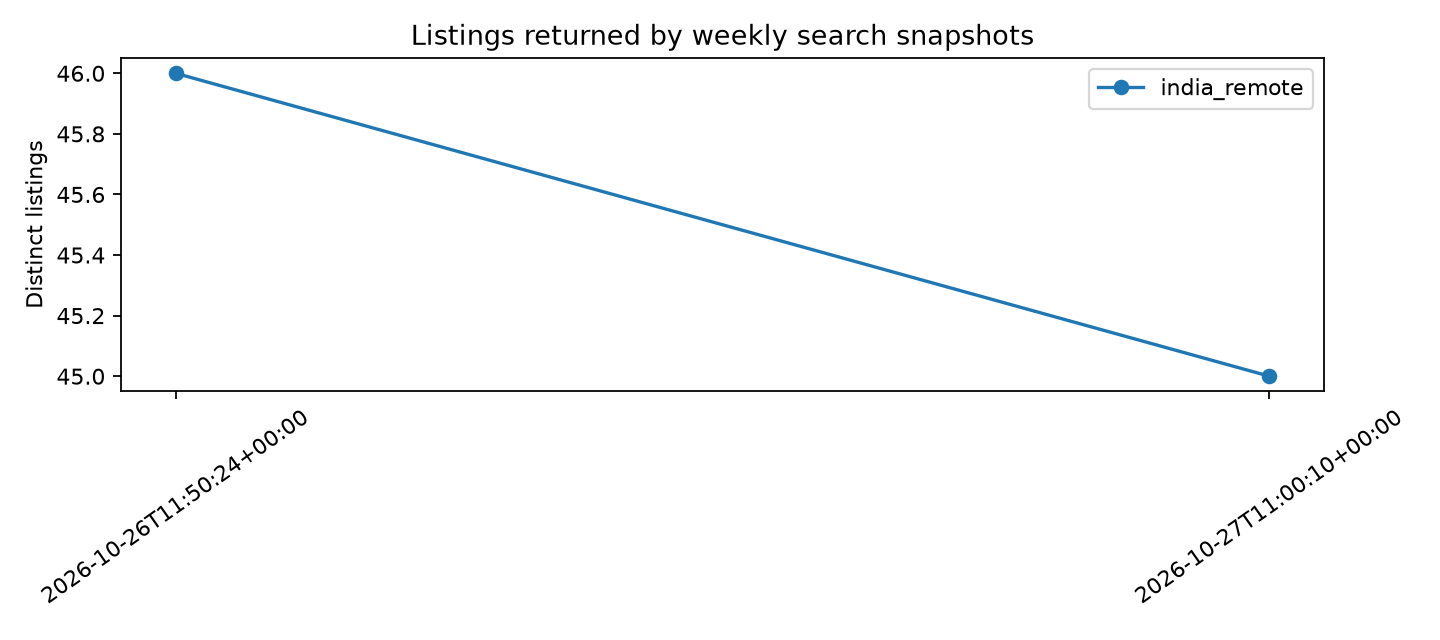
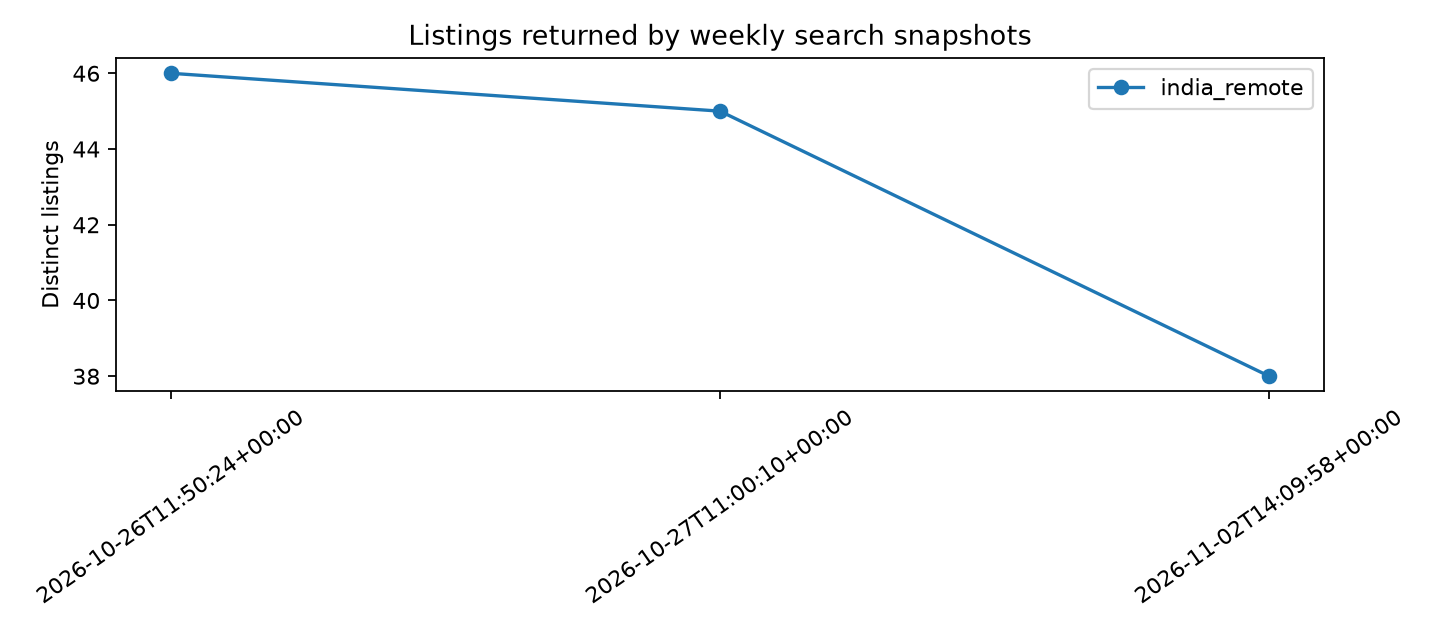
Refresh analyst job-market report

diff --git a/india-data-analyst-job-market-capstone/reports/dashboard.html b/india-data-analyst-job-market-capstone/reports/dashboard.html
@@ -1,8 +1,8 @@
 <!doctype html><html lang="en"><meta charset="utf-8"><meta name="viewport" content="width=device-width,initial-scale=1"><title>India Remote Data Analyst Job Market</title>
     <style>:root{color-scheme:dark;--bg:#080b11;--panel:#101622;--line:#243044;--text:#ecf2ff;--muted:#9ba9bd;--accent:#91a8ff;--mint:#79e0c1}*{box-sizing:border-box}body{margin:0;background:radial-gradient(ellipse at 80% -20%,#182441 0,transparent 46%),var(--bg);color:var(--text);font:16px/1.6 Inter,system-ui,sans-serif}main{max-width:1040px;margin:auto;padding:34px 22px 70px}nav,footer{color:var(--muted);font-size:13px;border-bottom:1px solid var(--line);padding:12px 0 20px}footer{border:0;border-top:1px solid var(--line);margin-top:32px;padding-top:20px}h1{font-size:clamp(38px,7vw,68px);line-height:1.05;letter-spacing:-.06em}.note,.panel{padding:20px;border:1px solid var(--line);border-radius:14px;background:var(--panel);margin:24px 0}.note{border-color:#48537a}table{border-collapse:collapse;width:100%}th,td{text-align:left;padding:10px;border-bottom:1px solid var(--line)}th{color:var(--mint)}img{max-width:100%;height:auto}a{color:var(--accent)}</style>
     <main><nav>BHARATH B · DATA ANALYTICS</nav><h1>What do data analyst job ads ask for?</h1><p>India-eligible remote listings · refreshed by weekly snapshots</p>
-    <section class="note">Source: <a href="https://himalayas.app/api">Himalayas public jobs API</a>. The API returned 467 keyword candidates; the title filter retained 45 analyst listings. This is a remote-job sample filtered for India eligibility, not a census, and does not represent Chennai or on-site roles.</section>
-    <section class="panel"><h2>Skills mentioned</h2><img src="skill_demand.png" alt="Skill demand chart"><table><thead><tr><th>Skill</th><th>Listings</th><th>Share</th></tr></thead><tbody><tr><td>SQL</td><td>35</td><td>77.8%</td></tr><tr><td>Data visualization</td><td>32</td><td>71.1%</td></tr><tr><td>Python</td><td>30</td><td>66.7%</td></tr><tr><td>Communication</td><td>23</td><td>51.1%</td></tr><tr><td>Power BI</td><td>23</td><td>51.1%</td></tr><tr><td>Tableau</td><td>23</td><td>51.1%</td></tr><tr><td>Statistics</td><td>19</td><td>42.2%</td></tr><tr><td>Excel</td><td>18</td><td>40.0%</td></tr><tr><td>ETL / data pipelines</td><td>15</td><td>33.3%</td></tr><tr><td>Cloud (AWS/Azure/GCP)</td><td>11</td><td>24.4%</td></tr></tbody></table></section>
-    <section class="panel"><h2>Advertised salaries by experience label</h2><table><thead><tr><th>Experience</th><th>Currency</th><th>Period</th><th>Salary listings</th><th>Mean midpoint</th></tr></thead><tbody><tr><td>mid</td><td>INR</td><td>annual</td><td>2</td><td>637,500</td></tr><tr><td>mid</td><td>USD</td><td>annual</td><td>1</td><td>111,500</td></tr></tbody></table><p>Only postings with disclosed salary are included. Currencies and pay periods are kept separate.</p></section>
-    <section class="panel"><h2>Weekly listing counts</h2><img src="posting_counts.png" alt="Listing counts across weekly pulls"><table><thead><tr><th>Collected (UTC)</th><th>Listings</th></tr></thead><tbody><tr><td>2026-10-26T11:50:24+00:00</td><td>46</td></tr><tr><td>2026-10-27T11:00:10+00:00</td><td>45</td></tr></tbody></table></section>
+    <section class="note">Source: <a href="https://himalayas.app/api">Himalayas public jobs API</a>. The API returned 414 keyword candidates; the title filter retained 38 analyst listings. This is a remote-job sample filtered for India eligibility, not a census, and does not represent Chennai or on-site roles.</section>
+    <section class="panel"><h2>Skills mentioned</h2><img src="skill_demand.png" alt="Skill demand chart"><table><thead><tr><th>Skill</th><th>Listings</th><th>Share</th></tr></thead><tbody><tr><td>Data visualization</td><td>30</td><td>78.9%</td></tr><tr><td>SQL</td><td>28</td><td>73.7%</td></tr><tr><td>Python</td><td>24</td><td>63.2%</td></tr><tr><td>Tableau</td><td>21</td><td>55.3%</td></tr><tr><td>Excel</td><td>19</td><td>50.0%</td></tr><tr><td>Power BI</td><td>18</td><td>47.4%</td></tr><tr><td>Communication</td><td>18</td><td>47.4%</td></tr><tr><td>Statistics</td><td>18</td><td>47.4%</td></tr><tr><td>ETL / data pipelines</td><td>12</td><td>31.6%</td></tr><tr><td>Cloud (AWS/Azure/GCP)</td><td>9</td><td>23.7%</td></tr></tbody></table></section>
+    <section class="panel"><h2>Advertised salaries by experience label</h2><table><thead><tr><th>Experience</th><th>Currency</th><th>Period</th><th>Salary listings</th><th>Mean midpoint</th></tr></thead><tbody><tr><td>mid</td><td>INR</td><td>annual</td><td>2</td><td>637,500</td></tr></tbody></table><p>Only postings with disclosed salary are included. Currencies and pay periods are kept separate.</p></section>
+    <section class="panel"><h2>Weekly listing counts</h2><img src="posting_counts.png" alt="Listing counts across weekly pulls"><table><thead><tr><th>Collected (UTC)</th><th>Listings</th></tr></thead><tbody><tr><td>2026-10-26T11:50:24+00:00</td><td>46</td></tr><tr><td>2026-10-27T11:00:10+00:00</td><td>45</td></tr><tr><td>2026-11-02T14:09:58+00:00</td><td>38</td></tr></tbody></table></section>
     <p><a href="findings.md">Written findings</a> · <a href="skill_demand_latest.csv">Skill data</a> · <a href="salary_by_experience.csv">Salary data</a></p><footer>Analysis of remote listings available to India-based applicants. Source: Himalayas. Raw descriptions are not published.</footer></main></html>

diff --git a/india-data-analyst-job-market-capstone/reports/findings.md b/india-data-analyst-job-market-capstone/reports/findings.md
@@ -2,28 +2,28 @@
 
 Data source: [Himalayas public jobs API](https://himalayas.app/api). This is a remote-job search sample filtered for India eligibility, not all jobs in India.
 
-Successful pulls: 2. The latest API search reported 467 keyword candidates; the title filter retained 45 distinct analyst listings.
+Successful pulls: 3. The latest API search reported 414 keyword candidates; the title filter retained 38 distinct analyst listings.
 
 The collector keeps data analyst, analytics analyst, and business-intelligence analyst titles; content-only matches are excluded.
 
 ## Most frequently detected skills
 
-Counts are from the latest pull (45 listings); a listing may mention multiple skills.
+Counts are from the latest pull (38 listings); a listing may mention multiple skills.
 
-- SQL: 35 listings (77.8%).
-- Data visualization: 32 listings (71.1%).
-- Python: 30 listings (66.7%).
-- Communication: 23 listings (51.1%).
-- Power BI: 23 listings (51.1%).
-- Tableau: 23 listings (51.1%).
-- Statistics: 19 listings (42.2%).
-- Excel: 18 listings (40.0%).
-- ETL / data pipelines: 15 listings (33.3%).
-- Cloud (AWS/Azure/GCP): 11 listings (24.4%).
+- Data visualization: 30 listings (78.9%).
+- SQL: 28 listings (73.7%).
+- Python: 24 listings (63.2%).
+- Tableau: 21 listings (55.3%).
+- Excel: 19 listings (50.0%).
+- Power BI: 18 listings (47.4%).
+- Communication: 18 listings (47.4%).
+- Statistics: 18 listings (47.4%).
+- ETL / data pipelines: 12 listings (31.6%).
+- Cloud (AWS/Azure/GCP): 9 listings (23.7%).
 
 ## Advertised salary coverage
 
-3 of 45 latest listings (6.7%) disclose a salary range. See `salary_by_experience.csv` for salary groups split by experience label, currency, and period. Values are not converted across currencies or periods.
+2 of 38 latest listings (5.3%) disclose a salary range. See `salary_by_experience.csv` for salary groups split by experience label, currency, and period. Values are not converted across currencies or periods.
 
 ## Change across weekly pulls
 
